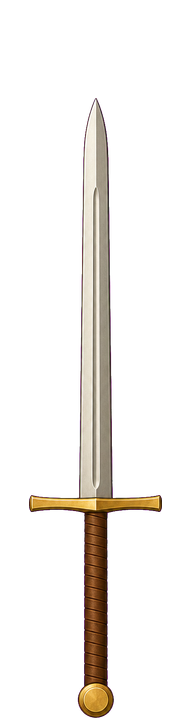
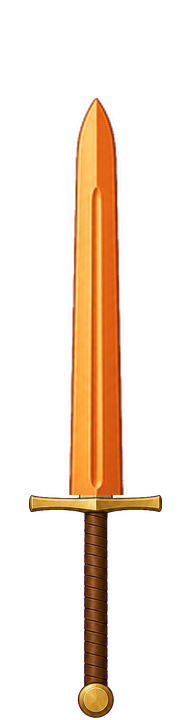
Demonbane: thicker orange blade with fire; Messina Saber flipped
- weaponFX gains a 'fire' kind: pooled flame puffs born at the blade's edges,
  stretched and rising along screen-up whatever the blade's angle, yellow to
  deep red as they fade, behind a crisp copy of the weapon. Set on Demonbane.
- Demonbane's blade widened 1.6x above the guard and recoloured orange.
- Messina Saber mirrored so its curve sweeps the other way (owner).

Changed region(s): [[0.3438, 0.1222, 0.6562, 0.7028]]

diff --git a/game-client/src/Render/PixiRenderer/weaponFX.js b/game-client/src/Render/PixiRenderer/weaponFX.js
@@ -9,6 +9,9 @@
  *   orb             a round halo (corona) around the weapon's TIP, the head still clearly seen (the Magic Spear, owner 2026-11-14):
  *                   the head is found from the drawing (the top rows wider than the shaft), the orb
  *                   is centred on it, about three times the head across, and breathes; orb:#hex for a colour
+ *   fire            flames licking off the BLADE (Demonbane, owner 2026-11-14): small flame puffs born on the
+ *                   blade's edges, rising straight UP on screen whatever angle the blade is at, yellow to
+ *                   orange to deep red as they shrink and fade; fire:#hex tints the hottest colour
  *
  * An effect is built as a CHILD of the weapon's sprite (ArmRig.setHeld), so it inherits the weapon's
  * position, rotation, scale and visibility: it travels with the prop through the guard and every
@@ -18,7 +21,7 @@
  * To add a kind: one entry in KINDS, `build(weapon, option)` returning { update(now), destroy() }.
  * `update` runs every frame the weapon is placed (ArmRig.placeHeld); keep it to a few property sets.
  */
-import { Sprite, Texture, BLEND_MODES } from 'pixi.js-legacy';
+import { Container, Sprite, Texture, BLEND_MODES } from 'pixi.js-legacy';
 
 // ------------------------------------------------------------------------------------------- glow
 const GLOW = {
@@ -197,7 +200,133 @@ function buildOrb(weapon, option) {
   };
 }
 
-const KINDS = { glow: buildGlow, orb: buildOrb };
+// ------------------------------------------------------------------------------------------- fire
+const FIRE = {
+  count: 56,           // puffs alive at once (a pool: nothing is made or freed while it burns)
+  lifeMs: [420, 780],
+  sizePx: [44, 80],    // a puff's diameter at birth, weapon texture px (512 px = 1.2 tiles)
+  risePx: [120, 220],  // how far a puff climbs over its life
+  drift: 22,           // sideways wander, px
+  colours: ['#ffe27a', '#ff9a1f', '#f2560c', '#a8200a'], // birth to death
+  stretch: 1.7,        // a puff is drawn taller than wide, along "up": a tongue of flame, not a dot
+};
+
+const fireDotCache = { tex: null };
+function fireDot() {
+  if (fireDotCache.tex) return fireDotCache.tex;
+  const n = 64, c = document.createElement('canvas');
+  c.width = c.height = n;
+  const ctx = c.getContext('2d');
+  const g = ctx.createRadialGradient(n / 2, n / 2, 0, n / 2, n / 2, n / 2);
+  g.addColorStop(0, 'rgba(255,255,255,1)');
+  g.addColorStop(0.4, 'rgba(255,255,255,0.7)');
+  g.addColorStop(1, 'rgba(255,255,255,0)');
+  ctx.fillStyle = g;
+  ctx.fillRect(0, 0, n, n);
+  fireDotCache.tex = Texture.from(c);
+  return fireDotCache.tex;
+}
+
+const hexRgb = (hex) => { const h = hex.replace('#', ''); return [0, 2, 4].map((i) => parseInt(h.slice(i, i + 2), 16) || 0); };
+const mix = (a, b, t) => a.map((v, i) => Math.round(v + (b[i] - v) * t));
+const toTint = ([r, g, b]) => (r << 16) | (g << 8) | b;
+
+/** Where flames are born: points just inside the blade's left and right edges, every few rows above the crossguard. */
+const edgeCache = new Map();
+function bladeEdges(tex) {
+  const src = tex.baseTexture.resource.source;
+  const key = tex.baseTexture.cacheId || src?.src;
+  if (edgeCache.has(key)) return edgeCache.get(key);
+  const w = tex.width, h = tex.height;
+  const c = document.createElement('canvas');
+  c.width = w; c.height = h;
+  const ctx = c.getContext('2d');
+  ctx.drawImage(src, 0, 0, w, h);
+  const guard = guardRow(ctx, w, h);
+  const a = ctx.getImageData(0, 0, w, h).data;
+  const pts = [];
+  for (let y = 0; y < guard - 6; y += 4) {
+    let l = -1, r = -1;
+    for (let x = 0; x < w; x++) if (a[(y * w + x) * 4 + 3] > 40) { if (l < 0) l = x; r = x; }
+    if (l >= 0) pts.push([l + 3, y], [r - 3, y]);
+  }
+  edgeCache.set(key, pts);
+  return pts;
+}
+
+function buildFire(weapon, option) {
+  const ramp = (option ? [option, ...FIRE.colours.slice(1)] : FIRE.colours).map(hexRgb);
+  const layer = new Container();
+  // the flames go BEHIND a crisp copy of the weapon (children draw over their parent): the blade stays clear and the
+  // fire licks out around its edges and climbs off it
+  const crisp = new Sprite(weapon.texture);
+  crisp.anchor.copyFrom(weapon.anchor);
+  weapon.addChild(layer, crisp);
+  const puffs = [];
+  for (let i = 0; i < FIRE.count; i++) {
+    const p = new Sprite(fireDot());
+    p.anchor.set(0.5);
+    p.blendMode = BLEND_MODES.NORMAL; // ADD over grass turns orange to yellow-green (2026-11-14): paint it
+    p.visible = false;
+    layer.addChild(p);
+    puffs.push({ sprite: p, born: -1, life: 1, x: 0, y: 0, rise: 0, drift: 0, size: 1 });
+  }
+  let pts = null, ox = 0, oy = 0;
+  const rand = (lo, hi) => lo + Math.random() * (hi - lo);
+  const spawn = (q, now) => {
+    const [x, y] = pts[Math.floor(Math.random() * pts.length)];
+    q.x = x - ox; q.y = y - oy;
+    q.born = now - Math.random() * 60;
+    q.life = rand(...FIRE.lifeMs);
+    q.rise = rand(...FIRE.risePx);
+    q.drift = rand(-FIRE.drift, FIRE.drift);
+    q.size = rand(...FIRE.sizePx) / 64;
+  };
+  return {
+    update(now) {
+      if (!pts) {
+        const tex = weapon.texture;
+        if (!tex?.valid || !tex.baseTexture?.resource?.source) return;
+        pts = bladeEdges(tex);
+        ox = weapon.anchor.x * tex.width; oy = weapon.anchor.y * tex.height;
+        crisp.texture = tex;
+        crisp.anchor.copyFrom(weapon.anchor);
+        if (!pts.length) return;
+        puffs.forEach((q) => { spawn(q, now); q.born -= Math.random() * q.life; }); // already burning on the first frame
+      }
+      if (!pts.length) return;
+      // "up" on screen, in the weapon's own px: the inverse of its world matrix applied to (0, -1)
+      const m = weapon.worldTransform;
+      const det = m.a * m.d - m.b * m.c || 1;
+      let ux = m.c / det, uy = -m.a / det; // inverse of [a c; b d] times (0, -1)
+      const len = Math.hypot(ux, uy) || 1;
+      ux /= len; uy /= len;
+      const sx = -uy, sy = ux; // sideways, for the wander
+      const turn = Math.atan2(uy, ux) + Math.PI / 2; // the puff's long axis along "up"
+      for (const q of puffs) {
+        let t = (now - q.born) / q.life;
+        if (t >= 1 || t < 0) { spawn(q, now); t = 0; }
+        const e = t * t * 0.4 + t * 0.6; // speeds up as it rises, as heat does
+        const wob = Math.sin((now / 140) + q.drift) * 0.35 + 1;
+        q.sprite.position.set(q.x + ux * q.rise * e + sx * q.drift * t * wob, q.y + uy * q.rise * e + sy * q.drift * t * wob);
+        const k = q.size * (1 - 0.6 * t);
+        q.sprite.rotation = turn;
+        q.sprite.scale.set(k, k * FIRE.stretch);
+        q.sprite.alpha = 0.85 * (t < 0.12 ? t / 0.12 : 1 - (t - 0.12) / 0.88);
+        const seg = Math.min(ramp.length - 2, Math.floor(t * (ramp.length - 1)));
+        q.sprite.tint = toTint(mix(ramp[seg], ramp[seg + 1], t * (ramp.length - 1) - seg));
+        q.sprite.visible = true;
+      }
+    },
+    destroy() {
+      for (const o of [layer, crisp]) o.parent?.removeChild(o);
+      layer.destroy({ children: true });
+      crisp.destroy();
+    },
+  };
+}
+
+const KINDS = { glow: buildGlow, orb: buildOrb, fire: buildFire };
 
 /**
  * The effect a row's `heldFx` names, as { kind, option, attach(weapon) }, or null for none or an

diff --git a/tools/editor/sheets/definitions.js b/tools/editor/sheets/definitions.js
@@ -52,7 +52,7 @@ export const DEFINITIONS = [
       { ...str('type'), immutable: true, required: true },
       { ...str('layoutkey'), immutable: true },
       { ...str('category'), type: 'enum', enum: ['tile', 'special', 'doober', 'source', 'farmplot', 'travel', 'editor', 'deco', 'stall', 'training', 'crafting', 'trainingAndShop', 'station', 'farmhouse', 'shop', 'npc', 'skill', 'power', 'pet', 'region'], required: true },
-      str('symbol'), str('filename'), { ...str('iconFile'), label: 'iconFile (panel icon when the board art differs: a fruit doober\'s painted fruit while filename is the fruited tree)' }, { key: 'weaponClass', label: 'weaponClass (a weapon\'s category: it picks the drawing in the avatar\'s hand, the guard and the swing; blank = nothing in the hand; game-client heldWeapon.js, docs/equipment-plan.md)', type: 'enum', enum: ['sword', 'greatsword', 'rapier', 'dagger', 'spear', 'polearm', 'axe', 'hammer', 'bow', 'longbow', 'crossbow'] }, { ...str('heldArt'), label: 'heldArt (this weapon\'s own drawing, a file under game-client/public/assets/avatar/hand (weapons/<name>.png) on its category\'s canvas; blank = the category\'s drawing)' }, { ...str('heldFx'), label: 'heldFx (optional: an effect on the weapon in the hand that moves with it, game-client weaponFX.js: glow (the blade), orb (a halo around the tip), each optionally :#rrggbb)' }, str('action'), bool('passable'), num('level'), str('source'),
+      str('symbol'), str('filename'), { ...str('iconFile'), label: 'iconFile (panel icon when the board art differs: a fruit doober\'s painted fruit while filename is the fruited tree)' }, { key: 'weaponClass', label: 'weaponClass (a weapon\'s category: it picks the drawing in the avatar\'s hand, the guard and the swing; blank = nothing in the hand; game-client heldWeapon.js, docs/equipment-plan.md)', type: 'enum', enum: ['sword', 'greatsword', 'rapier', 'dagger', 'spear', 'polearm', 'axe', 'hammer', 'bow', 'longbow', 'crossbow'] }, { ...str('heldArt'), label: 'heldArt (this weapon\'s own drawing, a file under game-client/public/assets/avatar/hand (weapons/<name>.png) on its category\'s canvas; blank = the category\'s drawing)' }, { ...str('heldFx'), label: 'heldFx (optional: an effect on the weapon in the hand that moves with it, game-client weaponFX.js: glow (the blade), orb (a halo around the tip), fire (flames off the blade), each optionally :#rrggbb)' }, str('action'), bool('passable'), num('level'), str('source'),
       { ...ref('shopregion', 'resource', 'error'), label: 'shopregion (only this region\'s shops sell it)' },
       { ...ref('growregion', 'resource', 'error'), label: 'growregion (farm plots: only planted, farm animals: only bought, on grids of this region)' }, str('requires'),
       bool('retired', 'retired (no longer sold or offered; players who own it keep it)'),

diff --git a/tools/art/rigshot.js b/tools/art/rigshot.js
@@ -12,7 +12,7 @@
  *        [--clip swipe --times 0,130,260,400,520,780]   one frame per time (ms) of the clip
  *        [--pose 0.1,1.4,0 --lead R]       the lead arm HELD at shoulder, elbow, wrist angles (radians): try a stance before any clip exists
  *        [--held <weapon png> --span 1.8]  an avatar: the weapon in its hand and the guard raised (heldWeapon.js); --times 0 shows the guard
- *        [--fx glow]                       with --held: an effect on the weapon (heldWeapon `heldFx`, weaponFX.js), e.g. glow, glow:#ffd27a or orb
+ *        [--fx glow]                       with --held: an effect on the weapon (heldWeapon `heldFx`, weaponFX.js), e.g. glow, glow:#ffd27a, orb or fire
  *        [--class sword]                   the weapon's category (heldWeapon.WEAPON_CLASSES): its guard and its clip; `--class bow` / `longbow` need no --held (the rig draws the bow)
  *        [--turn]                          the figure turns round at 0 ms: one frame per time, each drawn ONCE as the board draws it (16 ms steps show a part that lags the body); mid-breath, as a figure on the board always is
  *        [--gap 3]                         with --turn: this many ms pass between placing the figure's parts and drawing it, as on a busy board (everything under the figure is drawn in between)

diff --git a/docs/equipment-plan.md b/docs/equipment-plan.md
@@ -218,7 +218,7 @@ takes over; nothing is to be done about it.
   `heldFx: glow:#ffd27a`. Preview `docs/art/equipment/legendary-sword.png` (Long Sword; Legendary Sword at guard and in
   a held pose).
 - **Messina Saber and Falchion, their own blades** (owner 2026-11-14; one candidate each, cut by weaponfit on a 192 px
-  sword canvas, grip 96,448): the Messina Saber is curved like a scimitar (`weapons-r9`: single edge widening to a swept,
+  sword canvas, grip 96,448): the Messina Saber is curved like a scimitar (`weapons-r9`, mirrored after the cut so the curve sweeps the other way, owner: single edge widening to a swept,
   clipped point, brass cross with knobbed ends, at the Long Sword's length); the Falchion is the historical cleaver-type
   falchion of the 13th-14th century (`weapons-r10`, the Conyers / Thorpe kind: straight back, broad edge swelling toward
   the point, plain iron cross, disc pommel, a little shorter). Preview `docs/art/equipment/saber-falchion.png`
@@ -233,7 +233,13 @@ takes over; nothing is to be done about it.
     the top rows wider than the shaft), about 3.2 times the head's height across, in a pale arcane blue, with a crisp copy
     of the weapon drawn over it so the head stays clearly visible (owner: "a corona/halo rather than a solid orb"). On the
     Magic Spear (owner 2026-11-14; `docs/art/equipment/magic-spear-orb.png`).
-  A new kind is one entry in `KINDS`. `rigshot --fx glow` (or `--fx orb`) shows one.
+  - `fire` (or `fire:#hex` for the hottest colour): a pool of ~56 flame puffs born just inside the blade's edges above
+    the crossguard, each a soft tongue stretched along screen-UP (the inverse of the weapon's world matrix, so flames
+    climb upward whatever angle the blade is at, even hanging point-down), yellow to orange to deep red as it shrinks
+    and fades, drawn behind a crisp copy of the weapon so the blade stays clear. Normal blend, not ADD (ADD over grass
+    turned the orange yellow-green). On Demonbane (owner 2026-11-14), whose blade was also widened 1.6x above the
+    guard and recoloured orange (a luminance ramp, deep red-brown to pale gold). Preview `docs/art/equipment/demonbane-fire.png`.
+  A new kind is one entry in `KINDS`. `rigshot --fx glow` (or `--fx orb`, `--fx fire`) shows one.
 
 ## 1. What exists today
 
